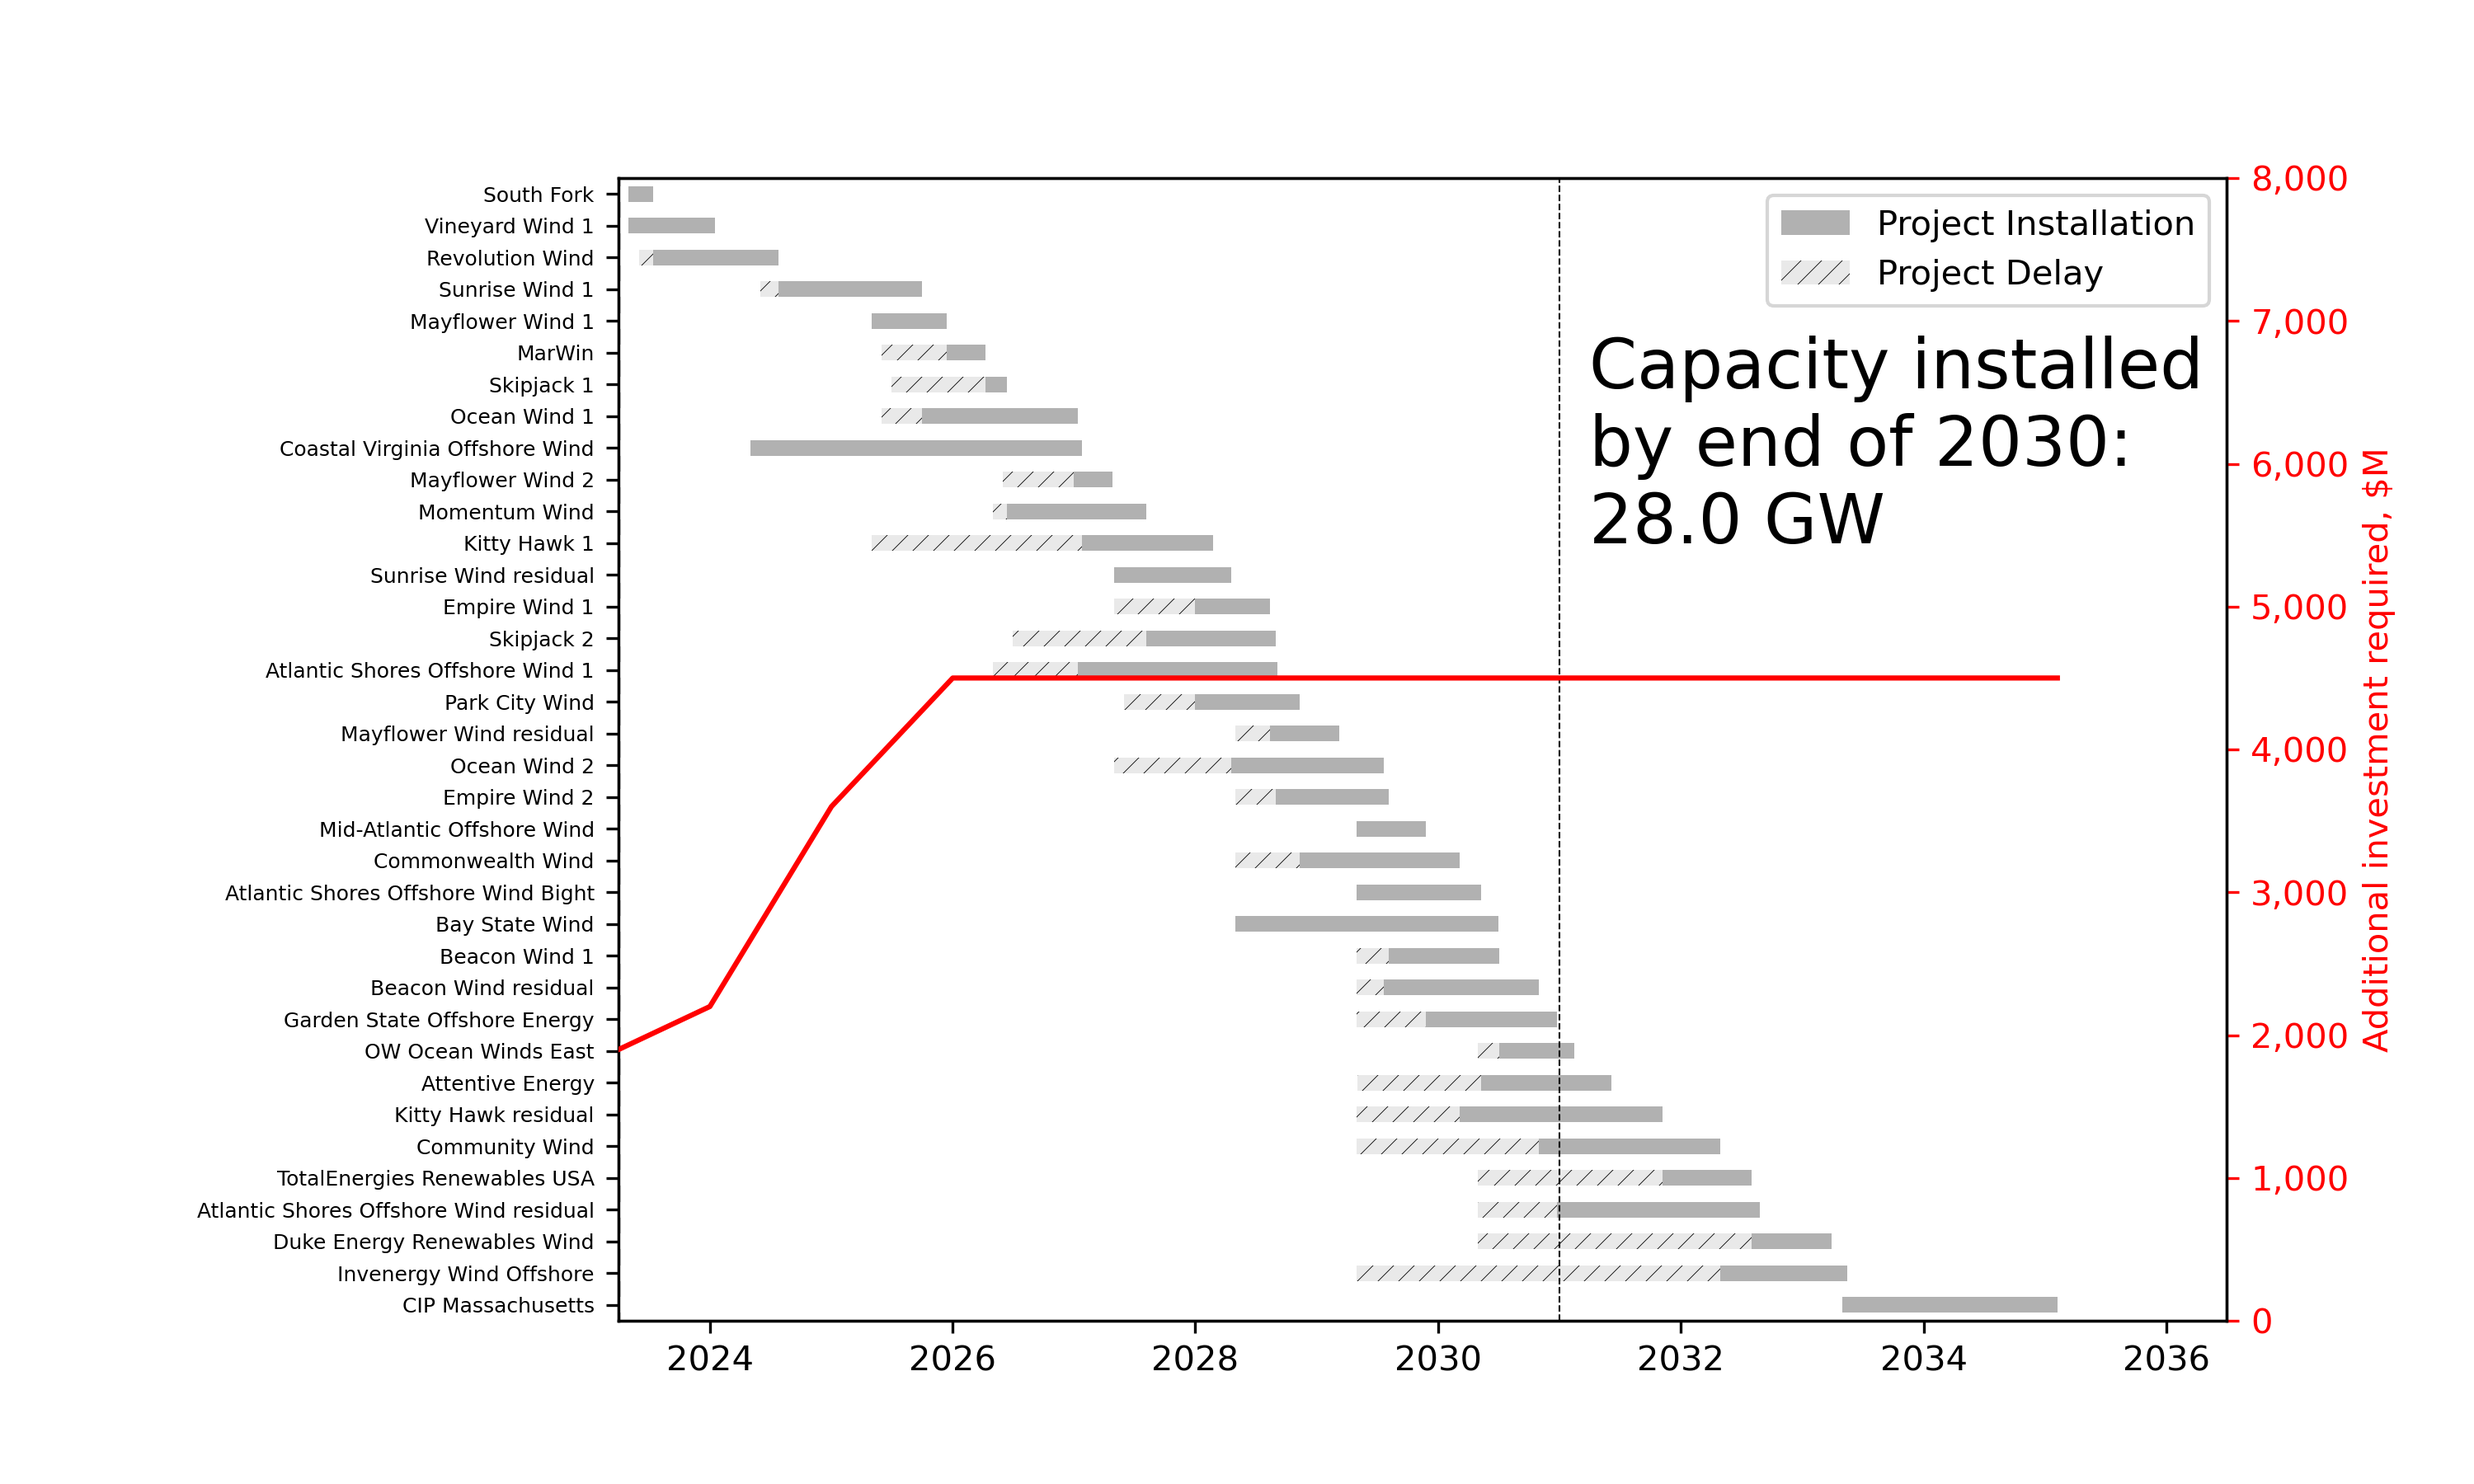
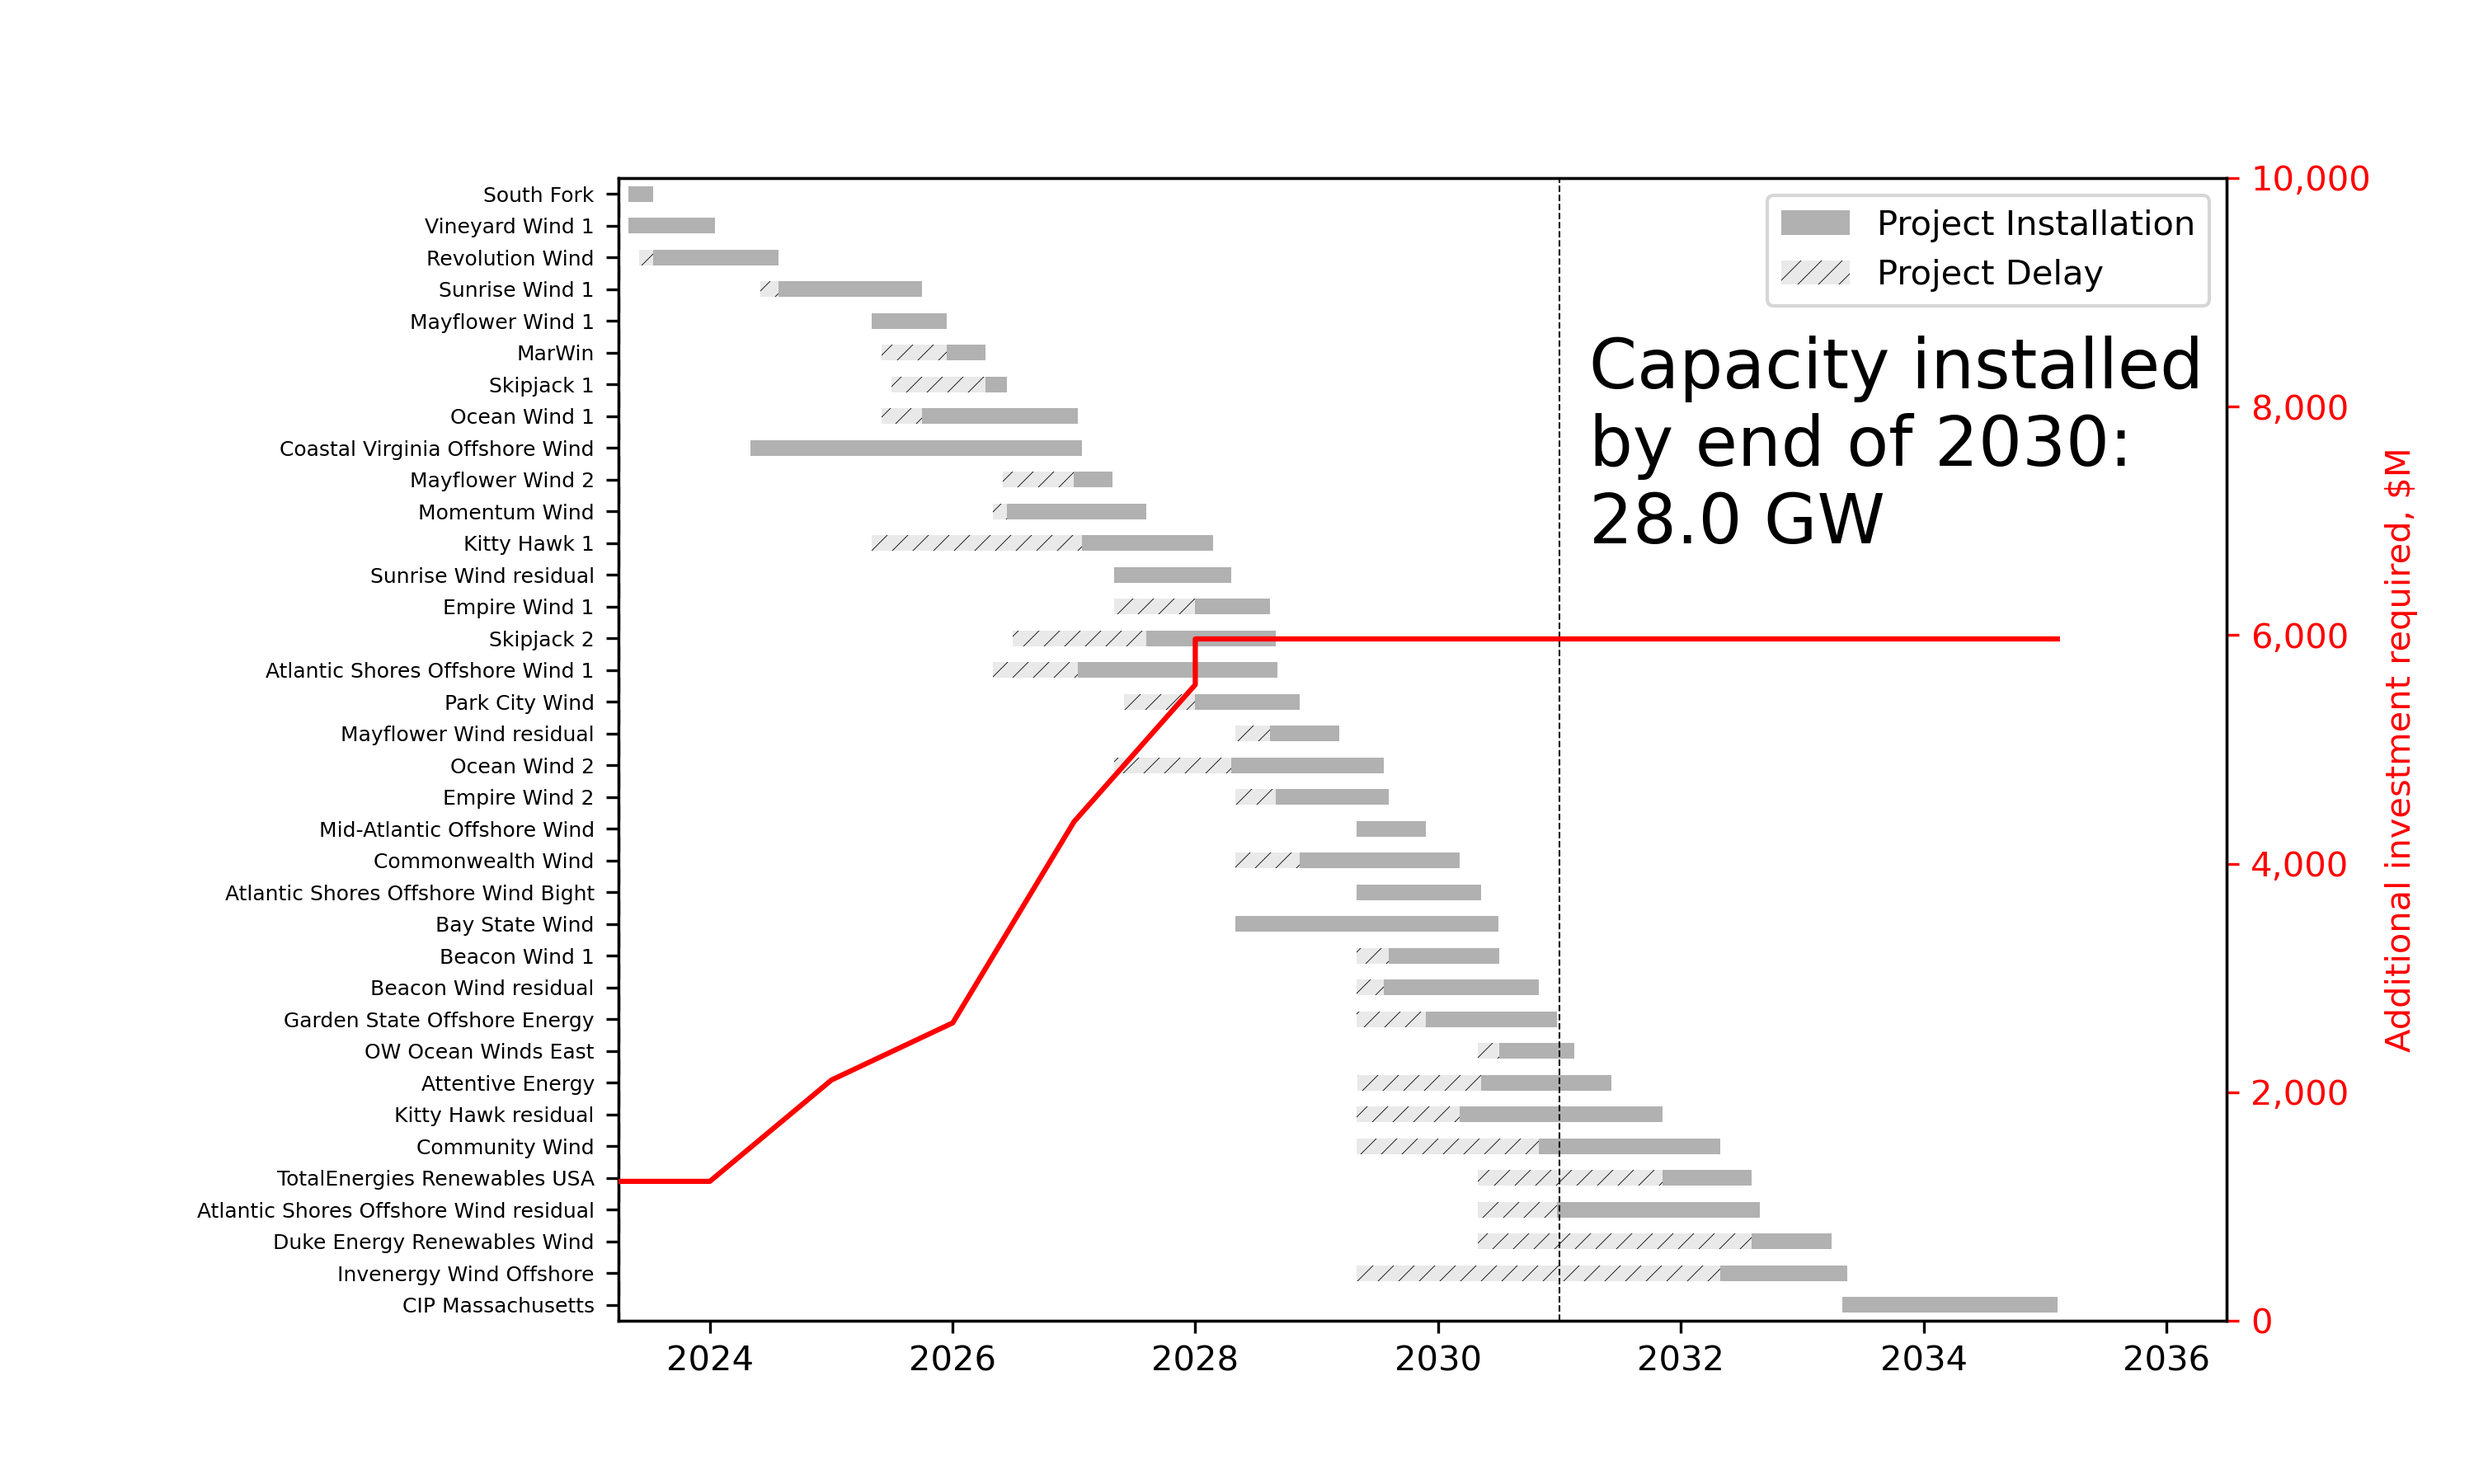
UPdate investment scheduling

diff --git a/run_analysis.py b/run_analysis.py
@@ -23,7 +23,7 @@ scenarios = {
     'baseline': {'pipeline': ip['base'],
                  'initial': ia['base2'],
                  'future': fa['base'],
-                 'invest': [inv['base_wtiv']]},
+                 'invest': [inv['base']]},
     # 'add_wtiv': {'pipeline': ip['base'],
     #              'initial': ia['base'],
     #              'future': fa['high_wtiv'],
@@ -63,7 +63,7 @@ scenarios = {
      'add_3hlv_4wtiv_eur_ports': {'pipeline': ip['add_ports'],
                   'initial': ia['base3'],
                   'future': fa['add_4wtiv_hlv_ports'],
-                  'invest': [inv['high_wtiv'], inv['add_port']],},
+                  'invest': [inv['add_3hlv_4wtiv_eur_ports']],},
 }
 invest_year_base = [dt.datetime(yi, 1, 1) for yi in inv['year']]
 cumsum_plot = True
@@ -165,7 +165,7 @@ if __name__ == '__main__':
             axR = ax.twinx()
             axR.plot(invest_year, np.cumsum(annual_invest), 'r', zorder=7)
             axR.set_ylabel('Additional investment required, $M')
-            axR.set_ylim([0,8000])
+            axR.set_ylim([0,10000])
             axR.get_yaxis().set_major_formatter(
                 mpl.ticker.FuncFormatter(lambda x, p: format(int(x), ',')))
             axR.tick_params(axis='y', colors='red')
@@ -243,7 +243,7 @@ if __name__ == '__main__':
 
     ax2.bar(x_ind+width/2, investment_2030, width, color='#FFA319')
     ax2.set_ylabel('Additional investment required, $M')
-    ax2.set_ylim([0,5000])
+    ax2.set_ylim([0,8000])
     ax2.get_yaxis().set_major_formatter(
         mpl.ticker.FuncFormatter(lambda x, p: format(int(x), ',')))
 

diff --git a/helpers.py b/helpers.py
@@ -128,10 +128,13 @@ wtiv = 500
 port = 400
 investments = {  # Include one 'port' in 2022 to cover additioanl grants for ports that are under construction (tradepoint, SBMT, NJWP)
 'year': [2022, 2023, 2024, 2025, 2026, 2027, 2028, 2028, 2030],
-'base_wtiv': [wtiv+port, 0, 0, wtiv, 0, 0, 0, 0, 0],
-'high_wtiv': [wtiv+port, wtiv, 0, wtiv+wtiv, wtiv, 0, 0, 0, 0],
-'add_port': [port, 0, port, port, port, 0, 0, 0, 0],  #Salem, NJWP2, AKT
-'add_ports_fast': [port+port+port, 0, port, 0, 0, 0, 0, 0, 0],  #Salem, NJWP2, AKT
+# 'base_wtiv': [wtiv+port, 0, 0, wtiv, 0, 0, 0, 0, 0],
+# 'high_wtiv': [wtiv+port, wtiv, 0, wtiv+wtiv, wtiv, 0, 0, 0, 0],
+# 'add_port': [port, 0, port, port, port, 0, 0, 0, 0],  #Salem, NJWP2, AKT
+# 'add_ports_fast': [port+port+port, 0, port, 0, 0, 0, 0, 0, 0],  #Salem, NJWP2, AKT
+# 'add_3hlv_4wtiv_eur_ports': [port+wtiv, ]
+'base': [1220, 0, 0, 887, 0, 260, 0, 0, 0],
+'add_3hlv_4wtiv_eur_ports': [1220, 0, 0, 887, 500, 1760, 1200, 400, 0, 0]
 }
 
 plot_names_map = {
